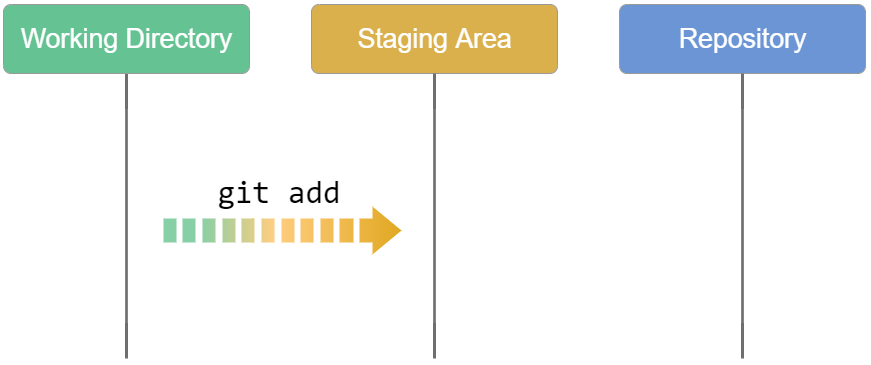
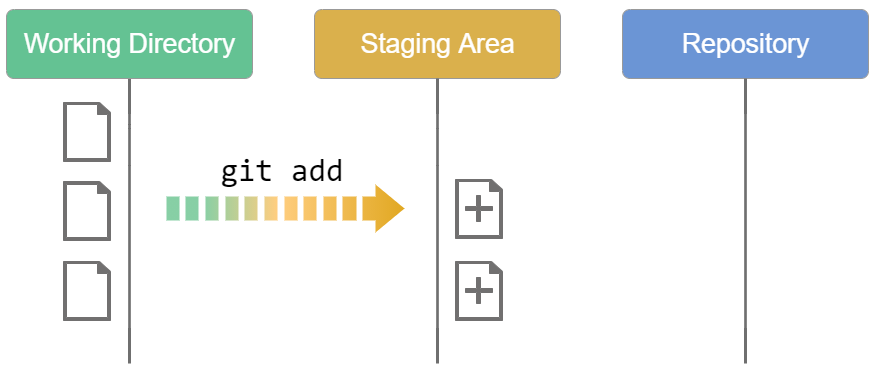
update git material

diff --git a/Git/03. Saving Changes/01. Add and Commit.md b/Git/03. Saving Changes/01. Add and Commit.md
@@ -1,15 +1,31 @@
 # Add and Commit
-Developing a project revolves around the basic edit/stage/commit pattern. First, you edit your files in the working directory. When you’re ready to save a copy of the current state of the project, you stage changes with git add. After you’re happy with the staged snapshot, you commit it to the project history with git commit.
+Developing a project revolves around the basic edit/stage/commit pattern. First, you edit your files in the working directory. When you’re ready to save a copy of the current state of the project, you stage changes with git add. After you’re happy with the staged snapshot, you commit it to the project history with `git commit`.
 
 ## `git add`
 When working in Git, or other version control systems, the concept of "saving" is a more nuanced process than saving in a word processor or other traditional file editing applications. The traditional software expression of "saving" is synonymous with the Git term "committing" and Git committing is an operation that acts upon a collection of files and directories.
 
-The `git add` command adds a change in the working directory to the staging area. It tells Git that you want to include updates to a particular file in the next commit. However, `git add` doesn't really affect the repository in any significant way—changes are not actually recorded until you run git commit.
+The `git add <file>` command adds a change in the working directory to the staging area. It tells Git that you want to include updates to a particular file in the next commit. However, `git add <file>` doesn't really affect the repository in any significant way—changes are not actually recorded until you run `git commit`.
 
-<img src="../images/git-add.png" alt="git-add" width="400px" style="float: none;" />
+<img src="../images/git-add.png" alt="git-add" width="600px" style="float: none;" />
 
-The primary function of the git add command, is to promote pending changes in the working directory, to the git staging area. The staging area is one of Git's more unique features, and it can take some time to wrap your head around it. The staging area is considered one of the "three trees" of Git, along with, the working directory, and the commit history.
+The primary function of the `git add` command, is to promote pending changes in the working directory, to the git staging area. The staging area is one of Git's more unique features, and it can take some time to wrap your head around it. The staging area is considered one of the "three trees" of Git, along with, the working directory, and the commit history.
 
 Instead of committing all of the changes you've made since the last commit, the stage lets you group related changes into highly focused snapshots before actually committing it to the project history. This means you can make all sorts of edits to unrelated files, then go back and split them up into logical commits by adding related changes to the stage and commit them piece-by-piece. As in any revision control system, it’s important to create atomic commits so that it’s easy to track down bugs and revert changes with minimal impact on the rest of the project.
 
+## `git commit`
+
+The `git commit` command captures a snapshot of the project's currently staged changes. Committed snapshots can be thought of as “safe” versions of a project—Git will never change them unless you explicitly ask it to. Prior to the execution of `git commit`, The `git add` command is used to promote or 'stage' changes to the project that will be stored in a commit. These two commands `git commit` and `git add` are two of the most frequently used.
+
+Instead of making a change and committing it directly to the central repo, Git developers have the opportunity to accumulate commits in their local repo. it makes it easier to split up a feature into atomic commits, keep related commits grouped together, and clean up local history before publishing it to the central repository. It also lets developers work in an isolated environment, deferring integration until they’re at a convenient point to merge with other users. While isolation and deferred integration are individually beneficial, it is in a team's best interest to integrate frequently and in small units.
+
+**Note:** Git records the entire contents of each file in every commit, not the differences. This makes many Git operations much faster than other version controls such as SVN, since a particular version of a file doesn’t have to be “assembled” from its diffs—the complete revision of each file is immediately available from Git's internal database.
+
 ### Options
+|Command|Description|
+|:--|:--|
+|`git commit`|Commit the staged snapshot. This will launch a text editor prompting you for a commit message. After you’ve entered a message, save the file and close the editor to create the actual commit.|
+|`git commit -a`|Commit a snapshot of all changes in the working directory. This only includes modifications to tracked files (those that have been added with `git add` at some point in their history).|
+|`git commit -m "commit message"`|A shortcut command that immediately creates a commit with a passed commit message. By default, `git commit` will open up the locally configured text editor, and prompt for a commit message to be entered. Passing the -m option will forgo the text editor prompt in-favor of an inline message.|
+|`git commit -am "commit message"`|A power user shortcut command that combines the `-a` and `-m` options. This combination immediately creates a commit of all the staged changes and takes an inline commit message.|
+|`git commit --amend`|This option adds another level of functionality to the commit command. Passing this option will modify the last commit. Instead of creating a new commit, staged changes will be added to the previous commit. This command will open up the system's configured text editor and prompt to change the previously specified commit message.|
+
